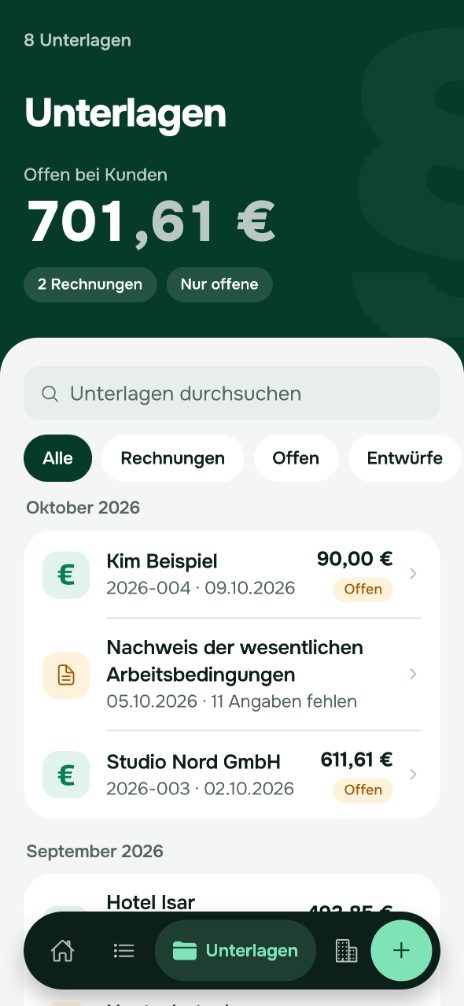
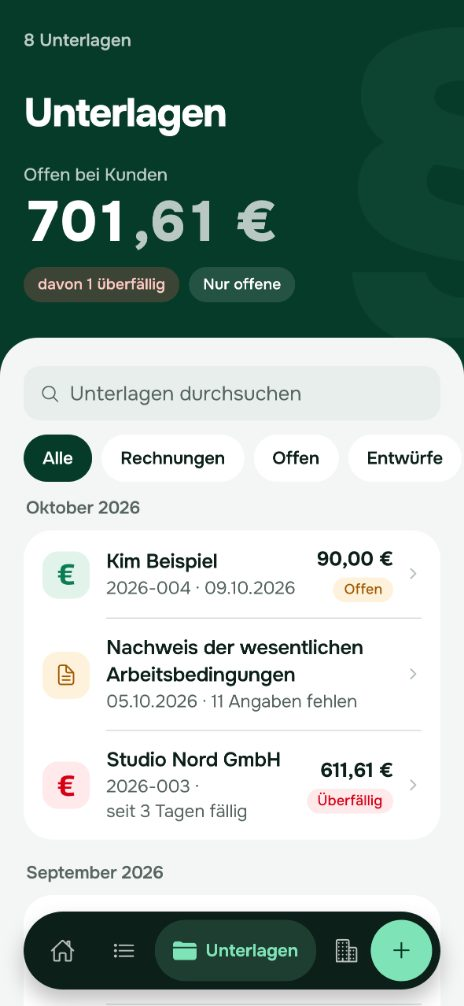
Store-Bild 4 zeigt wieder eine Pflicht; überfällige Rechnung kürzer beschriftet; Website-Bilder neu
Claude-Session: https://claude.ai/code/session_01WbXnSzce2P68GngQY2h6hr

diff --git a/apps/mobile/src/seiten/Unterlagen.tsx b/apps/mobile/src/seiten/Unterlagen.tsx
@@ -68,13 +68,14 @@ export const UnterlageZeile = memo(function UnterlageZeile({ u, letzte, fehlt, b
         : !u.festgeschrieben
           ? { text: TEXT.marke.entwurf, ton: "leise" as const }
           : undefined;
+    // überfällig: „seit … fällig“ statt des Datums – passt in eine Zeile neben die Marke
     const zusatz = !u.festgeschrieben && fehlt ? TEXT.fehlen(fehlt) : ueber > 0 && !u.bezahlt ? TEXT.ueberfaellig_seit(ueber) : "";
     return (
       <Zeile
         symbol="eurosign"
         ton={ueber > 0 && !u.bezahlt ? "frist" : ton}
         titel={storno ? TEXT.storno_titel(nummer, storno) : kunde || TEXT.rechnung_ohne_kunde}
-        text={[storno ? kunde : nummer, datum, zusatz].filter(Boolean).join(" · ")}
+        text={[storno ? kunde : nummer, ueber > 0 && !u.bezahlt && !fehlt ? "" : datum, zusatz].filter(Boolean).join(" · ")}
         wert={brutto ? euroText(brutto) : undefined}
         marke={marke}
         onPress={() => onPress(u.id)}

diff --git a/apps/mobile/src/texte.ts b/apps/mobile/src/texte.ts
@@ -124,7 +124,7 @@ export const T = {
   bezahlt_titel: "Zahlung",
   bezahlt_kurz: "bezahlt",
   marke: { bezahlt: "Bezahlt", offen: "Offen", ueberfaellig: "Überfällig", storniert: "Storniert", entwurf: "Entwurf" },
-  ueberfaellig_seit: (n: number) => (n === 1 ? "seit 1 Tag überfällig" : `seit ${n} Tagen überfällig`),
+  ueberfaellig_seit: (n: number) => (n === 1 ? "seit\u00a0gestern\u00a0fällig" : `seit\u00a0${n}\u00a0Tagen\u00a0fällig`), // bricht als Ganzes um
   faellig_bis: (d: string) => `Fällig bis ${d}`,
   faellig_war: (d: string) => `Überfällig – fällig war der ${d}`,
   davon_ueberfaellig: (n: number) => `davon ${n} überfällig`,

diff --git a/ENTSCHEIDUNGEN.md b/ENTSCHEIDUNGEN.md
@@ -926,6 +926,7 @@ Status: **angenommen** (vom Product Owner bestätigt) · **vorgeschlagen** (wart
   - Verdeckte Felder gehören nicht ins Dokument (`ohneVerdeckte`, mit Kaskade); Formular, Papieransicht, Prüfung und PDF nutzen dieselbe Sichtbarkeit (`ohneVerdeckteFelder`).
   - Gutschrift: Titel und Summe „Gutschrift“, keine Zahlungsaufforderung und kein GiroCode; Hinweis bei Kleinunternehmer zusammen mit Reverse-Charge oder igL.
   - Kassenmeldung zählt Feldnummern lückenlos; weitere leere Ausfüllblätter (Allergene, HACCP, Lohnkonto, EÜR, Rechnung, Verfahrensdokumentation, Handelsregister); Datenpanne ohne widersprüchliche Kombinationen; Google Fonts lokal oder extern; EÜR-Kennzahlen in App und PDF gleich; „Erstattung erhalten am“; kleinere Text- und Satzfehler.
+- **Store-Bilder:** Bild 4 („Mit Grund und Quelle – Jede Pflicht erklärt“) zeigte eine Rechnung, weil das Werkzeug die erste Zeile mit „fällig“ antippte – die überfällige Rechnung. Es wählt jetzt nur Pflichten. Die überfällige Rechnung heißt „seit 3 Tagen fällig“ statt Datum plus „seit 3 Tagen überfällig“ (wurde auf „Heute“ und im Store-Bild abgeschnitten). Website-Bilder neu erzeugt.
 - **Bewusst nicht geändert, fachlich offen:** T-87 bis T-93 (Storno-Leistungsdatum und Zahlungsangaben, Cent- vs. Euro-Basis der Voranmeldung, Vorsteuer bei Kleinbetragsrechnungen, einzelne Normverweise in Vorlagen, Werbeaussagen).
 
 ---
